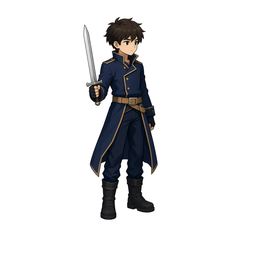
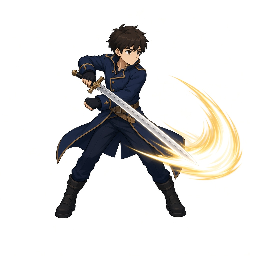
feat: attack follow-through plate and combat height slop
Replace idle-with-sword attack 01 with a recovered slash. Attack/slash/hurt may be 6px shorter than idle; walk height stays at 2px.

Changed region(s): [[0.2188, 0.0625, 0.9688, 0.875], [0.6875, 0.3125, 0.75, 0.3438]]

diff --git a/tools/tests/xsxb_mcp_cutout_gold.test.js b/tools/tests/xsxb_mcp_cutout_gold.test.js
@@ -9,8 +9,10 @@ const { cutoutFrameFiles, decodePngRgba, encodePngRgba } = require("../xsxb_mcp_
 const { flattenFrameBackground, resolvePreviewBackground } = require("../xsxb_mcp_lock");
 
 const FIXTURE = path.join(__dirname, "../fixtures/generated_hero/attack/00.png");
+const FIXTURE_FOLLOWTHROUGH = path.join(__dirname, "../fixtures/generated_hero/attack/01.png");
 const PROTECTED_GOLDS = ["#ffe040", "#ffe080", "#ffd070", "#ffcc33"];
 const PREVIEW_PATH = "/tmp/xsxb_cutout_gold_preview.png";
+const PREVIEW_FOLLOWTHROUGH_PATH = "/tmp/xsxb_cutout_gold_followthrough_preview.png";
 
 /**
  * True when a pixel is saturated yellow/gold glow, not brown hair or white plate.
@@ -244,6 +246,58 @@ test("border_flood + key_color keeps a gold crescent off the steel blade", () =>
 
     const preview = flattenFrameBackground(cut, resolvePreviewBackground("magenta"));
     fs.writeFileSync(PREVIEW_PATH, encodePngRgba(preview.data, preview.width, preview.height));
+    assertNavyCoatIntoBoots(preview);
+  } finally {
+    fs.rmSync(folder, { recursive: true, force: true });
+  }
+});
+
+test("fixture attack follow-through plate contains a gold crescent, not idle-b sparks", () => {
+  const source = decodePngRgba(FIXTURE_FOLLOWTHROUGH);
+  const blobs = slashGoldBlobs(source);
+  assert.ok(blobs.length, "attack/01.png must decode");
+  const largest = blobs[0];
+  assert.ok(
+    largest && largest.count >= 160 && largest.width >= 28 && largest.height >= 20,
+    `follow-through art has no crescent (largest blob ${JSON.stringify(largest)})`,
+  );
+});
+
+test("border_flood + key_color keeps follow-through gold crescent off the steel blade", () => {
+  assert.equal(fs.existsSync(FIXTURE_FOLLOWTHROUGH), true, "generated_hero attack/01.png is required");
+  const folder = fs.mkdtempSync(path.join(os.tmpdir(), "xsxb-cutout-gold-ft-"));
+  const dest = path.join(folder, "01.png");
+  try {
+    fs.copyFileSync(FIXTURE_FOLLOWTHROUGH, dest);
+    const receipt = cutoutFrameFiles([dest], {
+      keyMode: "border_flood",
+      keyColor: "#F8F8F8",
+      protectedColors: PROTECTED_GOLDS,
+      force: true,
+    });
+    assert.equal(receipt.keyed, true);
+    assert.ok(receipt.processedFrameCount >= 1, "must re-cut from the plated fixture, not skip");
+
+    const cut = decodePngRgba(dest);
+    const blobs = slashGoldBlobs(cut);
+    const largest = blobs[0];
+    const versus = goldVersusBladeBox(cut);
+    assert.ok(largest, "cutout left no slash-region gold");
+    assert.ok(
+      largest.count >= 160,
+      `gold crescent area collapsed to a sliver (${largest.count} px, bbox ${largest.width}x${largest.height}; off-blade ${versus.offBlade})`,
+    );
+    assert.ok(
+      largest.width >= 28 && largest.height >= 20,
+      `gold remains a blade-line sliver, not an arc (bbox ${largest.width}x${largest.height} at ${largest.minX},${largest.minY})`,
+    );
+    assert.ok(
+      versus.offBlade >= 200,
+      `gold off the steel box is ${versus.offBlade} (need crescent wings, not a blade highlight; on-blade ${versus.onBlade})`,
+    );
+
+    const preview = flattenFrameBackground(cut, resolvePreviewBackground("magenta"));
+    fs.writeFileSync(PREVIEW_FOLLOWTHROUGH_PATH, encodePngRgba(preview.data, preview.width, preview.height));
     assertNavyCoatIntoBoots(preview);
   } finally {
     fs.rmSync(folder, { recursive: true, force: true });

diff --git a/mcp/xsxb_mcp_validate_godot.js b/mcp/xsxb_mcp_validate_godot.js
@@ -13,8 +13,10 @@ const { borderFloodKey, measureSpriteGeometry } = require("./xsxb_mcp_lock");
 
 const FX_TYPES = new Set(["vfx", "prop", "scene_prop_attachment", "overlay", "fx", "effect"]);
 const FX_TOKENS = new Set(["vfx", "fx", "effect", "overlay", "prop", "airborne", "jump"]);
+const ACTION_HEIGHT_TOKENS = new Set(["attack", "slash", "hurt"]);
 const DEFAULT_FEET_TOLERANCE = 2;
 const DEFAULT_HEIGHT_TOLERANCE = 2;
+const ACTION_HEIGHT_TOLERANCE = 6;
 const DEFAULT_CANVAS_TOLERANCE = 0;
 const SYNC_ROOT_ALIASES = Object.freeze(["xsxb_frame_tuner", "x_frame"]);
 
@@ -41,6 +43,18 @@ function isFxOrAirborne(clip) {
   const typeKind = [clip?.type, clip?.kind].map((value) => String(value || "").toLowerCase());
   if (typeKind.some((value) => FX_TYPES.has(value))) return true;
   return [...labelTokens(clip?.id), ...labelTokens(clip?.name)].some((token) => FX_TOKENS.has(token));
+}
+
+/**
+ * True when a recovered combat pose may be a few pixels shorter than idle.
+ * Walk/run stay on the tight default; only whole attack/slash/hurt tokens qualify.
+ * @param {{id?:string,name?:string}} clip Animation or profile fields.
+ * @returns {boolean} True for slash-like clips.
+ */
+function isActionHeightClip(clip) {
+  return [...labelTokens(clip?.id), ...labelTokens(clip?.name)].some((token) =>
+    ACTION_HEIGHT_TOKENS.has(token),
+  );
 }
 
 /**
@@ -86,7 +100,8 @@ function resolveClipCanvas(clip, axis) {
 /**
  * Compares grounded clips to idle (or the first grounded clip) for feet, height, and canvas size.
  * Canvas mismatch uses 0px slop so a 256-tall walk against a 264-tall idle cannot pass as clean.
- * @param {Array<{id:string,grounded?:boolean,feetY?:number,bodyH?:number,feetYs?:number[],bodyHs?:number[],canvasW?:number,canvasH?:number,canvasWs?:number[],canvasHs?:number[]}>} clips
+ * Attack/slash/hurt clips may be a few pixels shorter than idle; walk/run stay at 2px.
+ * @param {Array<{id:string,name?:string,grounded?:boolean,feetY?:number,bodyH?:number,feetYs?:number[],bodyHs?:number[],canvasW?:number,canvasH?:number,canvasWs?:number[],canvasHs?:number[]}>} clips
  *   Measured animations.
  * @param {{feetTolerance?:number,heightTolerance?:number,canvasTolerance?:number}} [options] Pixel slop.
  * @returns {{ok:boolean,reference:string|null,issues:string[],clips:object[]}} Contract.
@@ -130,6 +145,9 @@ function evaluateScaleContract(clips, options = {}) {
     if (clip.id === reference.id) continue;
     const dFeet = Math.abs(Number(clip.feetY || 0) - Number(reference.feetY || 0));
     const dHeight = Math.abs(Number(clip.bodyH || 0) - Number(reference.bodyH || 0));
+    const clipHeightTolerance = isActionHeightClip(clip)
+      ? Math.max(heightTolerance, ACTION_HEIGHT_TOLERANCE)
+      : heightTolerance;
     const dCanvasW =
       clip.canvasW != null && reference.canvasW != null ? Math.abs(clip.canvasW - reference.canvasW) : 0;
     const dCanvasH =
@@ -139,7 +157,7 @@ function evaluateScaleContract(clips, options = {}) {
         `${clip.id}: feet row drifted ${dFeet}px from ${reference.id} (sole ${clip.feetY} vs ${reference.feetY})`,
       );
     }
-    if (dHeight > heightTolerance) {
+    if (dHeight > clipHeightTolerance) {
       issues.push(
         `${clip.id}: body height drifted ${dHeight}px from ${reference.id} (${clip.bodyH} vs ${reference.bodyH})`,
       );

diff --git a/tools/tests/xsxb_mcp_boxes.test.js b/tools/tests/xsxb_mcp_boxes.test.js
@@ -375,9 +375,9 @@ test("estimateFrameBoxes hitbox covers the generated attack gold crescent", () =
   }
 });
 
-test("estimateFrameBoxes disables hitbox on generated attack idle-b (sword, no crescent)", () => {
+test("estimateFrameBoxes hitbox covers the generated attack follow-through crescent", () => {
   assert.ok(fs.existsSync(GENERATED_ATTACK_1), `missing fixture ${GENERATED_ATTACK_1}`);
-  const root = fs.mkdtempSync(path.join(os.tmpdir(), "xsxb-box-atk-idleb-"));
+  const root = fs.mkdtempSync(path.join(os.tmpdir(), "xsxb-box-atk-followthrough-"));
   try {
     const filePath = path.join(root, "attack1.png");
     const image = writeKeyedGeneratedPng(GENERATED_ATTACK_1, filePath);
@@ -390,9 +390,35 @@ test("estimateFrameBoxes disables hitbox on generated attack idle-b (sword, no c
       groupCanvasWidth: image.width,
       groupCanvasHeight: image.height,
     });
+    assert.ok(boxes.hitbox && boxes.hitbox.enabled !== false, `hitbox missing: ${JSON.stringify(boxes)}`);
     assert.ok(
-      !boxes.hitbox || boxes.hitbox.enabled === false,
-      `idle-b must not emit an enabled junk hitbox: ${JSON.stringify(boxes.hitbox)}`,
+      boxes.hitbox.size.x > 20 && boxes.hitbox.size.y > 16,
+      `hitbox is a stamp ${boxes.hitbox.size.x}x${boxes.hitbox.size.y}`,
+    );
+    const hit = boxRectOnCanvas(boxes.hitbox, image.width, image.height);
+    let gold = 0;
+    let inside = 0;
+    const x0 = Math.round(image.width * 0.55);
+    const y0 = Math.round(image.height * 0.35);
+    for (let y = 0; y < image.height; y += 1) {
+      for (let x = 0; x < image.width; x += 1) {
+        if (x < x0 || y < y0) continue;
+        const offset = (y * image.width + x) * 4;
+        const r = image.data[offset];
+        const g = image.data[offset + 1];
+        const b = image.data[offset + 2];
+        const a = image.data[offset + 3];
+        if (a < 160) continue;
+        const sat = Math.max(r, g, b) - Math.min(r, g, b);
+        if (!(r >= 220 && g >= 180 && b <= 180 && r - b >= 50 && g - b >= 20 && sat >= 40)) continue;
+        gold += 1;
+        if (x >= hit.minX && x <= hit.maxX && y >= hit.minY && y <= hit.maxY) inside += 1;
+      }
+    }
+    assert.ok(gold >= 160, `follow-through fixture lost the gold crescent (${gold} px)`);
+    assert.ok(
+      inside / gold >= 0.2,
+      `hitbox overlaps ${inside}/${gold} crescent pixels; stamp beside the arc is not enough ${JSON.stringify(boxes.hitbox)}`,
     );
   } finally {
     fs.rmSync(root, { recursive: true, force: true });

diff --git a/tools/acceptance_generated.js b/tools/acceptance_generated.js
@@ -33,7 +33,7 @@ const ASSET_CANDIDATES = Object.freeze({
   idle: Object.freeze(["hero_idle_a.png", "hero_idle_b.png"]),
   walk: Object.freeze(["hero_walk.png", "hero_walk_b.png", "hero_walk.png"]),
   jump: Object.freeze(["hero_jump.png", "hero_jump_b.png", "hero_jump.png"]),
-  attack: Object.freeze(["hero_attack.png", "hero_idle_b.png"]),
+  attack: Object.freeze(["hero_attack.png", "hero_attack_followthrough.png"]),
   hit_vfx: Object.freeze(["hero_vfx_burst.png", "hero_vfx_burst_b.png", "hero_vfx_burst.png"]),
   ink_idle: Object.freeze(["hero_idle_black.png", "hero_idle_black.png"]),
 });
@@ -852,7 +852,7 @@ function countCrescentOverlap(image, blob, rect) {
  * Hurtbox top must reach the hair (subject minY), not start at the neck.
  * Attack frames with a gold slash crescent need a hitbox that overlaps that
  * arc and still reaches past the body. Attack frames with a sword but no
- * crescent (generated attack 01 / idle-b) must not keep an enabled junk hit.
+ * crescent (sword-only, no slash) must not keep an enabled junk hit.
  * @param {string} animationId Clip id.
  * @param {number} frameIndex Frame index.
  * @param {object} boxes Group-space overrides.
@@ -901,7 +901,7 @@ function assertFrameBoxes(animationId, frameIndex, boxes, image) {
     if (!crescent) {
       assert.ok(
         !boxPresent(boxes?.hitbox),
-        `${label} has an enabled hitbox but no slash crescent (idle-b / sword-only must disable or omit hit)`,
+        `${label} has an enabled hitbox but no slash crescent (sword-only must disable or omit hit)`,
       );
       return;
     }
@@ -1295,10 +1295,16 @@ async function runGeneratedAcceptance(options = {}) {
       animation_id: "attack",
     });
     assert.equal(attackKeyed.ok, true, JSON.stringify(attackKeyed.error || attackKeyed));
-    report.goldCrescent = inspectGoldCrescent(
-      decodePngRgba(attackKeyed.data.animation.frames[0].absolutePath),
-      "attack keyed frame 0",
-    );
+    report.goldCrescent = {
+      0: inspectGoldCrescent(
+        decodePngRgba(attackKeyed.data.animation.frames[0].absolutePath),
+        "attack keyed frame 0",
+      ),
+      1: inspectGoldCrescent(
+        decodePngRgba(attackKeyed.data.animation.frames[1].absolutePath),
+        "attack keyed frame 1",
+      ),
+    };
     const attackLock = await callTool(service, "xsxb_register_clip", {
       project_id: "generated",
       animation_id: "attack",

diff --git a/tools/tests/xsxb_mcp_validate_godot.test.js b/tools/tests/xsxb_mcp_validate_godot.test.js
@@ -102,6 +102,41 @@ test("evaluateScaleContract accepts matching canvases with 1px feet slop", () =>
   assert.equal(contract.clips[1].dFeet, -1);
 });
 
+test("evaluateScaleContract accepts 3px shorter attack when feet and canvas match", () => {
+  const contract = evaluateScaleContract([
+    { id: "idle", grounded: true, feetY: 256, bodyH: 196, canvasW: 256, canvasH: 264 },
+    { id: "attack", grounded: true, feetY: 256, bodyH: 193, canvasW: 256, canvasH: 264 },
+  ]);
+  assert.equal(contract.ok, true);
+  const attack = contract.clips.find((clip) => clip.id === "attack");
+  assert.ok(attack);
+  assert.equal(attack.dBody, -3);
+  assert.equal(attack.dFeet, 0);
+  assert.equal(attack.dCanvasH, 0);
+});
+
+test("evaluateScaleContract fails walk with 3px body height drift", () => {
+  const contract = evaluateScaleContract([
+    { id: "idle", grounded: true, feetY: 256, bodyH: 196, canvasW: 256, canvasH: 264 },
+    { id: "walk", grounded: true, feetY: 256, bodyH: 193, canvasW: 256, canvasH: 264 },
+  ]);
+  assert.equal(contract.ok, false);
+  const walk = contract.clips.find((clip) => clip.id === "walk");
+  assert.ok(walk);
+  assert.equal(walk.dBody, -3);
+  assert.ok(contract.issues.some((issue) => /walk/.test(issue) && /height/.test(issue)));
+});
+
+test("evaluateScaleContract uses attack height slop for slash and hurt tokens", () => {
+  for (const clip of [{ id: "slash" }, { id: "hurt" }, { id: "combo_01", name: "sword slash" }]) {
+    const contract = evaluateScaleContract([
+      { id: "idle", grounded: true, feetY: 256, bodyH: 196, canvasW: 256, canvasH: 264 },
+      { ...clip, grounded: true, feetY: 256, bodyH: 193, canvasW: 256, canvasH: 264 },
+    ]);
+    assert.equal(contract.ok, true, String(clip.id || clip.name));
+  }
+});
+
 test("validate_for_godot scale contract fails 256-tall walk against 264-tall idle", async () => {
   const root = fs.mkdtempSync(path.join(os.tmpdir(), "xsxb-mcp-canvas-gate-"));
   const godotRoot = path.join(root, "godot");

diff --git a/tools/fixtures/generated_hero/README.md b/tools/fixtures/generated_hero/README.md
@@ -1,6 +1,6 @@
 # generated_hero
 
-1024×1024 RGB plates downsampled to 256×256 (LANCZOS, no grid) for playbook / MCP session fixtures.
+1024×1024 RGB plates downsampled to 256×256 (nearest-neighbor long-edge cap, no grid) for playbook / MCP session fixtures.
 
 ## Sequences (256×256)
 
@@ -9,7 +9,7 @@
 | `idle/` | `00.png`, `01.png` | `hero_idle_a.png`, `hero_idle_b.png` (sword idle) |
 | `walk/` | `00.png`, `01.png` | `hero_walk.png`, `hero_walk_b.png` (opposite contact, right foot forward) |
 | `jump/` | `00.png`, `01.png` | `hero_jump.png`, `hero_jump_b.png` |
-| `attack/` | `00.png`, `01.png` | `hero_attack.png`, `hero_idle_b.png` |
+| `attack/` | `00.png`, `01.png` | `hero_attack.png`, `hero_attack_followthrough.png` |
 | `hit_vfx/` | `00.png`, `01.png` | `hero_vfx_burst.png`, `hero_vfx_burst_b.png` |
 | `ink_idle/` | `00.png`, `01.png` | `hero_idle_black.png` (same black-plate idle, duplicated) |
 
@@ -25,5 +25,6 @@
 - `hero_jump.png`
 - `hero_jump_b.png` (GenerateImage, jump + idle_a references)
 - `hero_attack.png`
+- `hero_attack_followthrough.png`
 - `hero_vfx_burst.png`
 - `hero_vfx_burst_b.png` (GenerateImage, burst reference)
